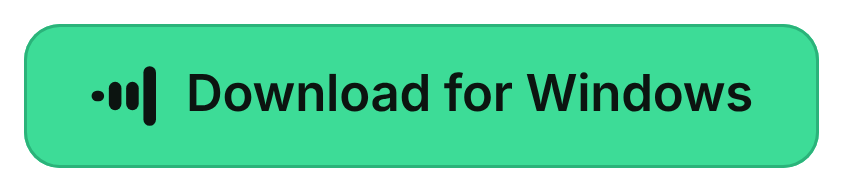
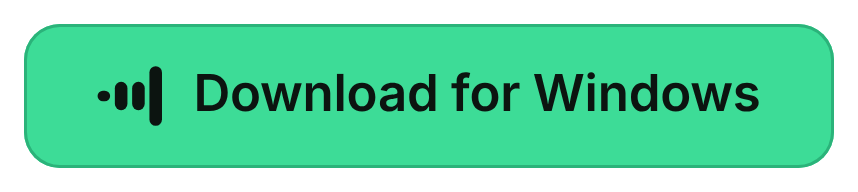
Use equal-width buttons and the matching hero animation

Changed region(s): [[0.0922, 0.3438, 0.8913, 0.6562], [0.922, 0.125, 0.9835, 0.875]]

diff --git a/README.md b/README.md
@@ -1,5 +1,5 @@
 <p align="center">
-  <a href="https://github.com/sudo-csmith/leetsay/releases"><img src="assets/leetsay-card-banner.gif" alt="Animation of leetsay: hold Ctrl+Space, speak, and the dictation card shows your words before they are typed." width="100%"></a>
+  <a href="https://github.com/sudo-csmith/leetsay/releases"><img src="assets/leetsay-hero-windows.webp" width="100%" alt="Illustration: hold Ctrl and Space, speak, let go, and the words are typed into a text window."></a>
 </p>
 <p align="center">
   <a href="https://github.com/sudo-csmith/leetsay/releases/latest/download/leetsay-setup.exe"><img
@@ -89,7 +89,7 @@ while you talk, instead of all at once when you let go. It is a little less
 accurate, because each word is typed before the rest of the sentence is heard.
 
 <p align="center">
-  <img src="assets/leetsay-type-as-you-speak.gif" alt="Animation of leetsay typing words into a text box while the dictation card shows them." width="100%">
+  <img src="assets/leetsay-type-as-you-speak.webp" alt="Animation of leetsay typing words into a text box while the dictation card shows them." width="100%">
 </p>
 <p align="center"><sub>Type as you speak is an optional setting and is off by default. Illustration, not a screen recording.</sub></p>
 
